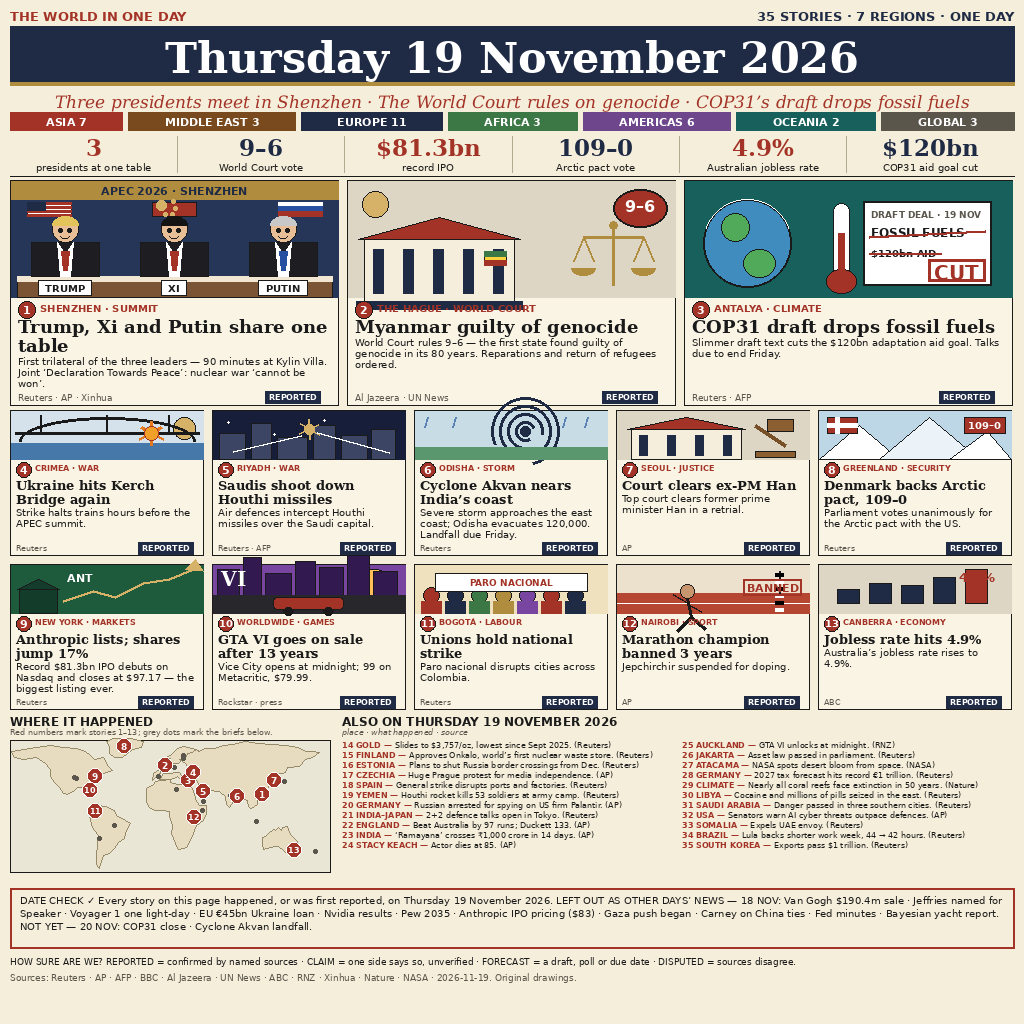
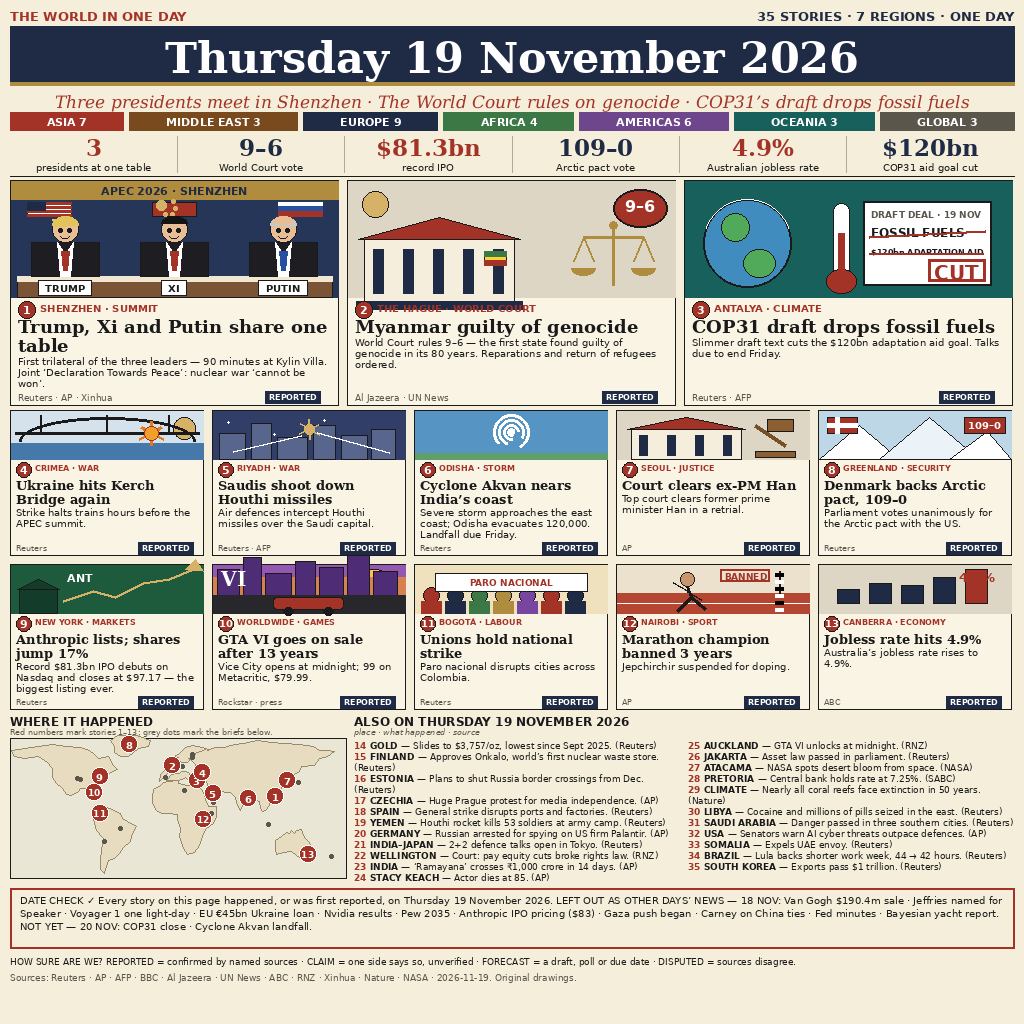
Fix entry 2/3 (agent 4): white cyclone spiral, BANNED stamp inside illustration, black readable briefs, bigger map+pins, brighter Riyadh/GTA panels, distinct APEC hair, Wellington+Pretoria briefs (EUROPE 9/AFRICA 4/OCEANIA 3), full COP31 aid line, runner kept inside illustration

diff --git a/render.py b/render.py
@@ -115,17 +115,29 @@ def draw_flag_ru(draw, x, y, w, h):
     draw.rectangle([x, y + 2 * h / 3, x + w, y + h], fill=BRICK)
 
 
-def draw_face(draw, cx, cy, r, hair, skin=(232, 190, 150)):
+def draw_face(draw, cx, cy, r, hair, skin=(232, 190, 150), style="cap"):
     draw.ellipse([cx - r, cy - r, cx + r, cy + r], fill=skin, outline=INK, width=1)
-    # hair cap
-    draw.pieslice([cx - r, cy - r, cx + r, cy + r * 0.4], 180, 360, fill=hair)
+    if style == "flat":
+        # straight fringe: flatter hair cap
+        draw.pieslice([cx - r, cy - r, cx + r, cy + r * 0.1], 180, 360, fill=hair)
+    else:
+        # hair cap
+        draw.pieslice([cx - r, cy - r, cx + r, cy + r * 0.4], 180, 360, fill=hair)
+    if style == "sweep":
+        # blond side-swept fringe over the forehead
+        draw.polygon([(cx - r, cy - r + 3), (cx + r * 0.5, cy - r + 1),
+                      (cx + r * 0.9, cy - r * 0.3), (cx - r * 0.7, cy - r * 0.15)],
+                     fill=hair)
+    elif style == "recede":
+        # receding hair: skin shows through the front hairline, grey at the sides
+        draw.pieslice([cx - r, cy - r, cx + r, cy + r * 0.4], 205, 335, fill=skin)
     for ex in (-r * 0.38, r * 0.38):
         draw.ellipse([cx + ex - 2, cy - 1, cx + ex + 2, cy + 3], fill=INK)
     draw.arc([cx - r * 0.4, cy + r * 0.15, cx + r * 0.4, cy + r * 0.75],
              20, 160, fill=INK, width=1)
 
 
-def draw_leader(draw, cx, base_y, suit, tie, hair, name):
+def draw_leader(draw, cx, base_y, suit, tie, hair, name, style="cap"):
     """Seated leader behind a table; base_y is the table top."""
     body_h = 34
     draw.rectangle([cx - 34, base_y - body_h, cx + 34, base_y], fill=suit, outline=INK, width=1)
@@ -134,7 +146,7 @@ def draw_leader(draw, cx, base_y, suit, tie, hair, name):
                  fill=(255, 255, 255))
     draw.polygon([(cx - 4, base_y - body_h + 9), (cx + 4, base_y - body_h + 9),
                   (cx + 2, base_y - 6), (cx - 2, base_y - 6)], fill=tie)
-    draw_face(draw, cx, base_y - body_h - 13, 13, hair)
+    draw_face(draw, cx, base_y - body_h - 13, 13, hair, style=style)
     # nameplate
     f = SANS_B(10)
     tw = draw.textlength(name, font=f)
@@ -159,9 +171,9 @@ def hero_apec(draw, x, y, w, h):
     draw.rectangle([x + 6, table_y, x + w - 6, y + h], fill=(122, 84, 52), outline=INK, width=1)
     draw.rectangle([x + 6, table_y, x + w - 6, table_y + 5], fill=(240, 230, 210))
     step = w // 3
-    draw_leader(draw, x + step // 2, table_y, (30, 30, 34), BRICK, (226, 196, 90), "TRUMP")
-    draw_leader(draw, x + step + step // 2, table_y, (30, 30, 34), BRICK, (20, 20, 20), "XI")
-    draw_leader(draw, x + 2 * step + step // 2, table_y, (30, 30, 34), (40, 80, 160), (200, 200, 200), "PUTIN")
+    draw_leader(draw, x + step // 2, table_y, (30, 30, 34), BRICK, (226, 196, 90), "TRUMP", "sweep")
+    draw_leader(draw, x + step + step // 2, table_y, (30, 30, 34), BRICK, (20, 20, 20), "XI", "flat")
+    draw_leader(draw, x + 2 * step + step // 2, table_y, (30, 30, 34), (40, 80, 160), (200, 200, 200), "PUTIN", "recede")
 
 
 def draw_scales(draw, cx, cy, s=1.0):
@@ -222,9 +234,10 @@ def hero_cop31(draw, x, y, w, h):
     draw.text((dx + 8, dy + 8), "DRAFT DEAL \u00b7 19 NOV", font=SANS_B(9), fill=GREY)
     draw.text((dx + 8, dy + 24), "FOSSIL FUELS", font=f, fill=INK)
     draw.line([(dx + 6, dy + 36), (dx + dw - 6, dy + 30)], fill=BRICK, width=3)
-    f2 = SANS_B(10)
-    draw.text((dx + 8, dy + 46), "$120bn AID", font=f2, fill=INK)
-    draw.line([(dx + 6, dy + 52), (dx + 78, dy + 52)], fill=BRICK, width=2)
+    f2 = SANS_B(8)
+    t2 = "$120bn ADAPTATION AID"
+    draw.text((dx + 8, dy + 46), t2, font=f2, fill=INK)
+    draw.line([(dx + 6, dy + 52), (dx + 8 + draw.textlength(t2, font=f2), dy + 52)], fill=BRICK, width=2)
     # CUT stamp
     f3 = SANS_B(20)
     t = "CUT"
@@ -253,12 +266,12 @@ def scene_bridge(draw, x, y, w, h):
 
 
 def scene_riyadh(draw, x, y, w, h):
-    draw.rectangle([x, y, x + w, y + h], fill=(22, 30, 58))
+    draw.rectangle([x, y, x + w, y + h], fill=(48, 62, 104))
     for sx, sy in [(14, 10), (60, 22), (110, 8), (160, 18), (40, 34), (140, 32)]:
         draw.ellipse([x + sx, y + sy, x + sx + 2, y + sy + 2], fill=(255, 255, 255))
     # skyline
     for bx, bw, bh in [(6, 26, 26), (38, 20, 36), (64, 30, 22), (100, 22, 34), (128, 26, 24), (158, 24, 30)]:
-        draw.rectangle([x + bx, y + h - bh, x + bx + bw, y + h], fill=(60, 70, 100), outline=INK, width=1)
+        draw.rectangle([x + bx, y + h - bh, x + bx + bw, y + h], fill=(88, 102, 142), outline=INK, width=1)
     # intercept burst + missile trails
     mx, my = x + w // 2, y + 18
     for dx, dy in [(0, -10), (9, -5), (10, 5), (0, 10), (-10, 5), (-9, -5)]:
@@ -269,15 +282,15 @@ def scene_riyadh(draw, x, y, w, h):
 
 
 def scene_cyclone(draw, x, y, w, h):
-    draw.rectangle([x, y, x + w, y + h], fill=(200, 220, 230))
-    cx, cy = x + w // 2 + 14, y + h // 2 - 4
-    for r in (34, 26, 18, 10):
-        draw.arc([cx - r, cy - r, cx + r, cy + r], 20 + r * 4, 300 + r * 4, fill=NAVY, width=3)
-    draw.ellipse([cx - 5, cy - 5, cx + 5, cy + 5], fill=NAVY)
-    # coast + rain
-    draw.rectangle([x, y + h - 12, x + w, y + h], fill=(90, 150, 110))
-    for rx in (12, 40, 150, 172):
-        draw.line([(x + rx, y + 6), (x + rx - 3, y + 16)], fill=(90, 130, 180), width=2)
+    # clean white spiral on blue sea/sky, kept clear of the panel edges
+    draw.rectangle([x, y, x + w, y + h], fill=(86, 148, 196))
+    cx, cy = x + w // 2, y + h // 2 - 3
+    for r in (18, 13, 8, 4):
+        draw.arc([cx - r, cy - r, cx + r, cy + r], 30 + r * 6, 310 + r * 6,
+                 fill=(255, 255, 255), width=3)
+    draw.ellipse([cx - 3, cy - 3, cx + 3, cy + 3], fill=(255, 255, 255))
+    # coastline along the bottom
+    draw.rectangle([x, y + h - 6, x + w, y + h], fill=(96, 158, 110))
 
 
 def scene_court(draw, x, y, w, h):
@@ -326,11 +339,13 @@ def scene_stocks(draw, x, y, w, h):
 
 
 def scene_gta(draw, x, y, w, h):
-    draw.rectangle([x, y, x + w, y + h], fill=(120, 70, 160))
+    draw.rectangle([x, y, x + w, y + h], fill=(148, 88, 178))
     draw.ellipse([x + w - 52, y + 4, x + w - 12, y + 34], fill=(255, 190, 90), outline=INK, width=1)
+    # sunset band behind the skyline
+    draw.rectangle([x, y + h - 36, x + w, y + h - 18], fill=(214, 130, 80))
     # skyline
     for bx, bw, bh in [(4, 22, 26), (30, 18, 38), (52, 26, 22), (82, 20, 34), (106, 24, 28), (134, 22, 40), (160, 24, 24)]:
-        draw.rectangle([x + bx, y + h - 18 - bh, x + bx + bw, y + h - 18], fill=(50, 25, 80), outline=INK, width=1)
+        draw.rectangle([x + bx, y + h - 18 - bh, x + bx + bw, y + h - 18], fill=(78, 44, 118), outline=INK, width=1)
     draw.rectangle([x, y + h - 18, x + w, y + h], fill=(40, 40, 44))
     # car
     draw.rounded_rectangle([x + 60, y + h - 16, x + 130, y + h - 4], radius=4, fill=BRICK, outline=INK, width=1)
@@ -362,25 +377,25 @@ def scene_runner(draw, x, y, w, h):
     # track
     draw.rectangle([x, y + h - 20, x + w, y + h], fill=(180, 70, 50))
     draw.line([(x, y + h - 10), (x + w, y + h - 10)], fill=(255, 255, 255), width=1)
-    # runner (stick figure)
-    rx, ry = x + 70, y + 26
+    # runner (stick figure) — kept inside the 48px illustration
+    rx, ry = x + 70, y + 14
     draw.ellipse([rx - 7, ry - 7, rx + 7, ry + 7], fill=(200, 150, 110), outline=INK, width=1)
-    draw.line([(rx, ry + 7), (rx + 4, ry + 26)], fill=INK, width=3)
+    draw.line([(rx, ry + 7), (rx + 4, ry + 18)], fill=INK, width=3)
     draw.line([(rx, ry + 12), (rx - 14, ry + 4)], fill=INK, width=2)
     draw.line([(rx, ry + 12), (rx + 14, ry + 20)], fill=INK, width=2)
-    draw.line([(rx + 4, ry + 26), (rx - 10, ry + 40)], fill=INK, width=3)
-    draw.line([(rx + 4, ry + 26), (rx + 18, ry + 38)], fill=INK, width=3)
+    draw.line([(rx + 4, ry + 18), (rx - 10, ry + 32)], fill=INK, width=3)
+    draw.line([(rx + 4, ry + 18), (rx + 18, ry + 30)], fill=INK, width=3)
     # finish tape
     draw.line([(x + w - 30, y + 6), (x + w - 30, y + h - 20)], fill=INK, width=2)
     for i in range(6):
         draw.rectangle([x + w - 34, y + 8 + i * 7, x + w - 26, y + 11 + i * 7],
                        fill=(0, 0, 0) if i % 2 == 0 else (255, 255, 255))
-    # BANNED stamp
-    f = SANS_B(11)
+    # BANNED stamp — top right of the illustration, clear of the tape and headline
+    f = SANS_B(9)
     t = "BANNED"
     tw = draw.textlength(t, font=f)
-    draw.rectangle([x + w - tw - 14, y + h - 34, x + w - 8, y + h - 18], outline=BRICK, width=2)
-    draw.text((x + w - tw - 10, y + h - 32), t, font=f, fill=BRICK)
+    draw.rectangle([x + w - tw - 46, y + 4, x + w - 40, y + 16], outline=BRICK, width=2)
+    draw.text((x + w - tw - 42, y + 6), t, font=f, fill=BRICK)
 
 
 def scene_bars(draw, x, y, w, h):
@@ -476,11 +491,11 @@ def draw_map(draw, x, y, w, h):
         draw.ellipse([px - 2, py - 2, px + 2, py + 2], fill=GREY)
     for n, lon, lat in PINS:
         px, py = lonlat_to_xy(lon, lat, x, y, w, h)
-        d = 15
+        d = 17
         draw.ellipse([px - d / 2, py - d / 2, px + d / 2, py + d / 2],
                      fill=BRICK, outline=(255, 255, 255), width=1)
         s = str(n)
-        f = SANS_B(9 if len(s) < 2 else 8)
+        f = SANS_B(10 if len(s) < 2 else 9)
         tw = draw.textlength(s, font=f)
         draw.text((px - tw / 2, py - 5), s, font=f, fill=(255, 255, 255))
 
@@ -546,13 +561,13 @@ BRIEFS = [
     (19, "YEMEN", "Houthi rocket kills 53 soldiers at army camp.", "Reuters"),
     (20, "GERMANY", "Russian arrested for spying on US firm Palantir.", "AP"),
     (21, "INDIA\u2013JAPAN", "2+2 defence talks open in Tokyo.", "Reuters"),
-    (22, "ENGLAND", "Beat Australia by 97 runs; Duckett 133.", "AP"),
+    (22, "WELLINGTON", "Court: pay equity cuts broke rights law.", "RNZ"),
     (23, "INDIA", "\u2018Ramayana\u2019 crosses \u20b91,000 crore in 14 days.", "AP"),
     (24, "STACY KEACH", "Actor dies at 85.", "AP"),
     (25, "AUCKLAND", "GTA VI unlocks at midnight.", "RNZ"),
     (26, "JAKARTA", "Asset law passed in parliament.", "Reuters"),
     (27, "ATACAMA", "NASA spots desert bloom from space.", "NASA"),
-    (28, "GERMANY", "2027 tax forecast hits record \u20ac1 trillion.", "Reuters"),
+    (28, "PRETORIA", "Central bank holds rate at 7.25%.", "SABC"),
     (29, "CLIMATE", "Nearly all coral reefs face extinction in 50 years.", "Nature"),
     (30, "LIBYA", "Cocaine and millions of pills seized in the east.", "Reuters"),
     (31, "SAUDI ARABIA", "Danger passed in three southern cities.", "Reuters"),
@@ -563,9 +578,9 @@ BRIEFS = [
 ]
 
 REGIONS = [
-    ("ASIA 7", BRICK), ("MIDDLE EAST 3", (122, 74, 31)), ("EUROPE 11", NAVY),
-    ("AFRICA 3", (60, 120, 70)), ("AMERICAS 6", (110, 70, 140)),
-    ("OCEANIA 2", (24, 96, 92)), ("GLOBAL 3", GREY),
+    ("ASIA 7", BRICK), ("MIDDLE EAST 3", (122, 74, 31)), ("EUROPE 9", NAVY),
+    ("AFRICA 4", (60, 120, 70)), ("AMERICAS 6", (110, 70, 140)),
+    ("OCEANIA 3", (24, 96, 92)), ("GLOBAL 3", GREY),
 ]
 
 NUMBERS = [
@@ -696,31 +711,34 @@ def main():
     d.text((X0, y), "WHERE IT HAPPENED", font=SANS_B(12), fill=INK)
     d.text((X0, y + 13), "Red numbers mark stories 1\u201313; grey dots mark the briefs below.",
            font=SANS(8), fill=GREY)
-    map_w, map_h = 320, 132
-    draw_map(d, X0, y + 26, map_w, map_h)
+    map_w, map_h = 336, 140
+    draw_map(d, X0, y + 24, map_w, map_h)
 
-    bx = X0 + map_w + 12
+    bx = X0 + map_w + 8
     bw = X1 - bx
     d.text((bx, y), "ALSO ON THURSDAY 19 NOVEMBER 2026", font=SANS_B(12), fill=INK)
     d.text((bx, y + 13), "place \u00b7 what happened \u00b7 source", font=SANS_O(8), fill=GREY)
     col_w = (bw - 8) / 2
-    f_b, f_r = SANS_B(8), SANS(8)
+    f_b, f_r = SANS_B(9), SANS(9)
     for ci in range(2):
         col_items = BRIEFS[ci * 11:(ci + 1) * 11]
         yy = y + 26
         cx0 = bx + ci * (col_w + 8)
         for num, place, text, src in col_items:
-            head = "%d %s \u2014 " % (num, place)
+            num_s = "%d " % num
+            head = "%s \u2014 " % place
             rest = "%s (%s)" % (text, src)
             # wrap rest to fit under head on first line, then full width
-            first_w = col_w - d.textlength(head, font=f_b)
+            first_w = col_w - d.textlength(num_s + head, font=f_b)
             lines = wrap(d, rest, f_r, first_w)
-            d.text((cx0, yy), head, font=f_b, fill=BRICK)
-            d.text((cx0 + d.textlength(head, font=f_b), yy), lines[0], font=f_r, fill=INK)
-            yy += 10
+            d.text((cx0, yy), num_s, font=f_b, fill=BRICK)
+            nx = cx0 + d.textlength(num_s, font=f_b)
+            d.text((nx, yy), head, font=f_b, fill=INK)
+            d.text((nx + d.textlength(head, font=f_b), yy), lines[0], font=f_r, fill=INK)
+            yy += 11
             for ln in lines[1:]:
                 d.text((cx0, yy), ln, font=f_r, fill=INK)
-                yy += 10
+                yy += 11
 
     # ---- footer: DATE CHECK box
     y = 888
